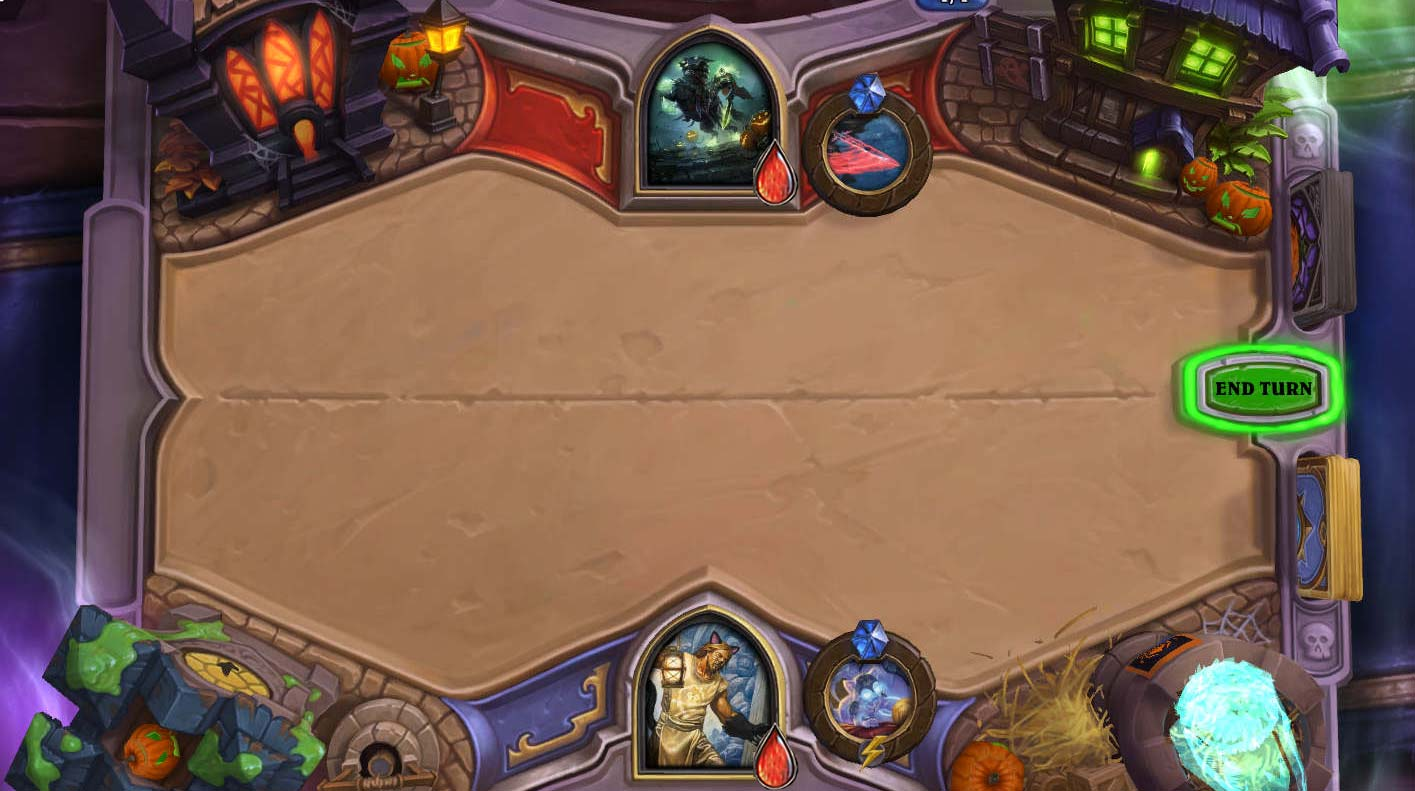
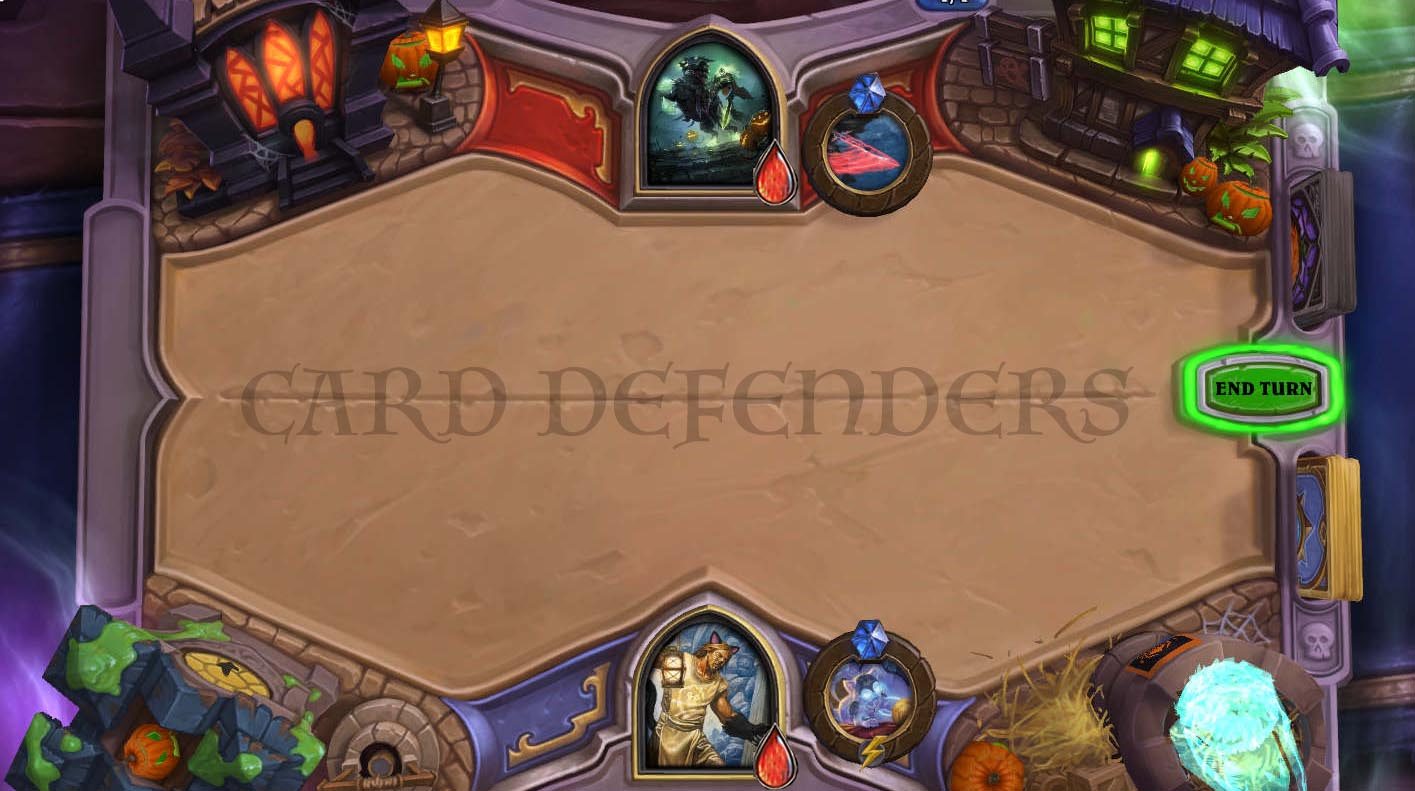
visuals, changed background

Changed region(s): [[0.1866, 0.4551, 0.8085, 0.5765], [0.1555, 0.4855, 0.1866, 0.5461]]

diff --git a/client/public/index.html b/client/public/index.html
@@ -15,7 +15,7 @@
 
       <button id="start-game">Start Game</button>
       <!-- <button></button> -->
-      <h1 id="title-main">Card Defenders</h1>
+      <h1 id="title-main"></h1>
 
       <div id="player-two-charactor"></div>
       <div id="player-two-container"></div>
